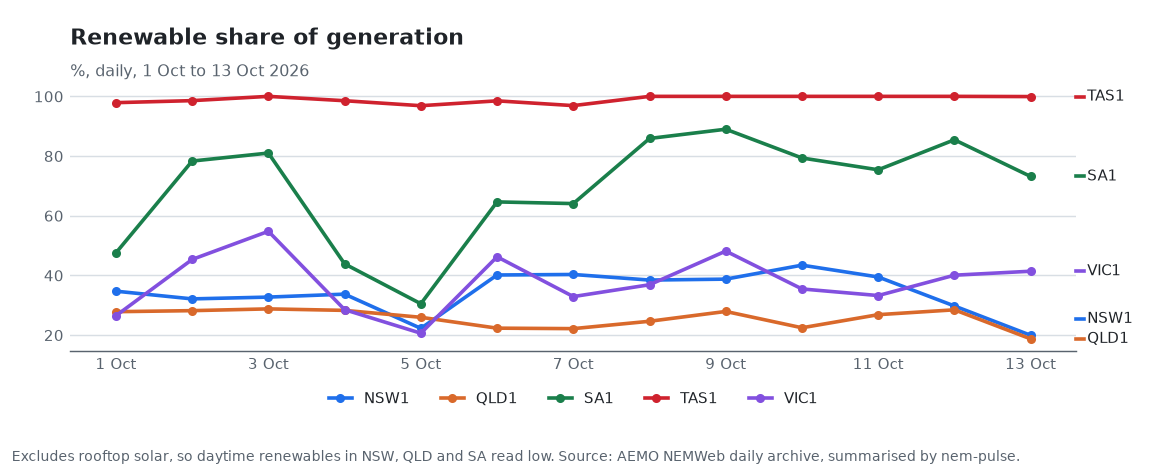
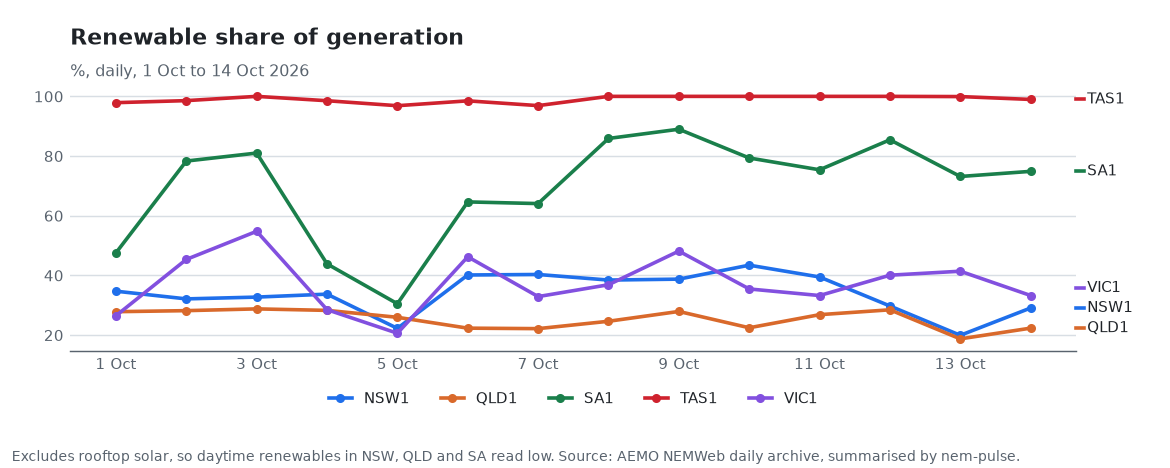
data: 2026-10-15

diff --git a/README.md b/README.md
@@ -15,16 +15,16 @@ I built it to try the "git scraping" pattern on grid data: the repository is the
 ## Latest
 
 <!-- PULSE:START -->
-_Updated for 2026-10-13 (NEM time)._
+_Updated for 2026-10-14 (NEM time)._
 
 | Region | Avg price | Renewables | Intensity | Negative price intervals |
 |---|---:|---:|---:|---:|
-| NSW1 | $244/MWh | 20% | 651 g/kWh | 0 |
-| QLD1 | $217/MWh | 19% | 686 g/kWh | 0 |
-| VIC1 | $25/MWh | 41% | 661 g/kWh | 108 |
-| SA1 | $35/MWh | 73% | 90 g/kWh | 108 |
-| TAS1 | $34/MWh | 100% | 0 g/kWh | 101 |
-| NEM | $168/MWh | 31% | 612 g/kWh | 0 |
+| NSW1 | $131/MWh | 29% | 606 g/kWh | 0 |
+| QLD1 | $115/MWh | 22% | 668 g/kWh | 0 |
+| VIC1 | $83/MWh | 33% | 742 g/kWh | 4 |
+| SA1 | $63/MWh | 75% | 93 g/kWh | 102 |
+| TAS1 | $81/MWh | 99% | 6 g/kWh | 0 |
+| NEM | $109/MWh | 34% | 607 g/kWh | 0 |
 
 ### Recent records
 
